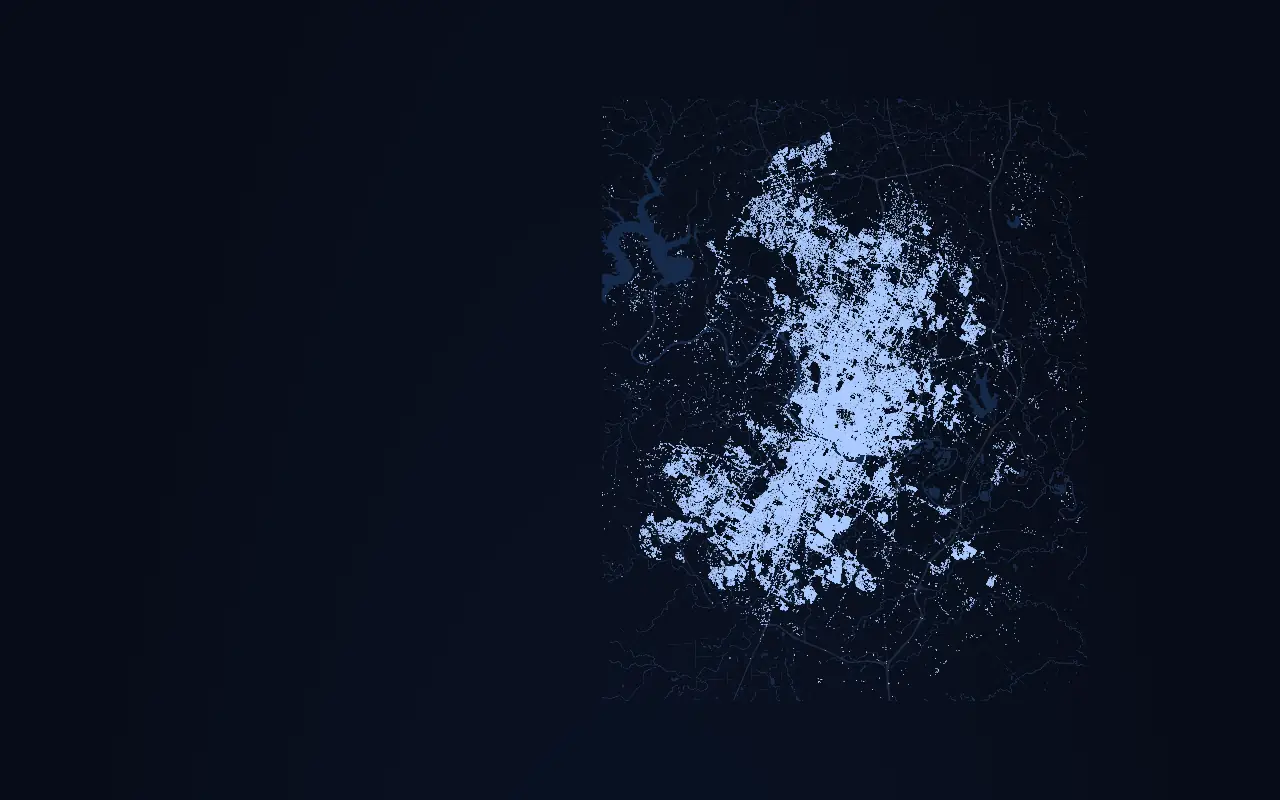
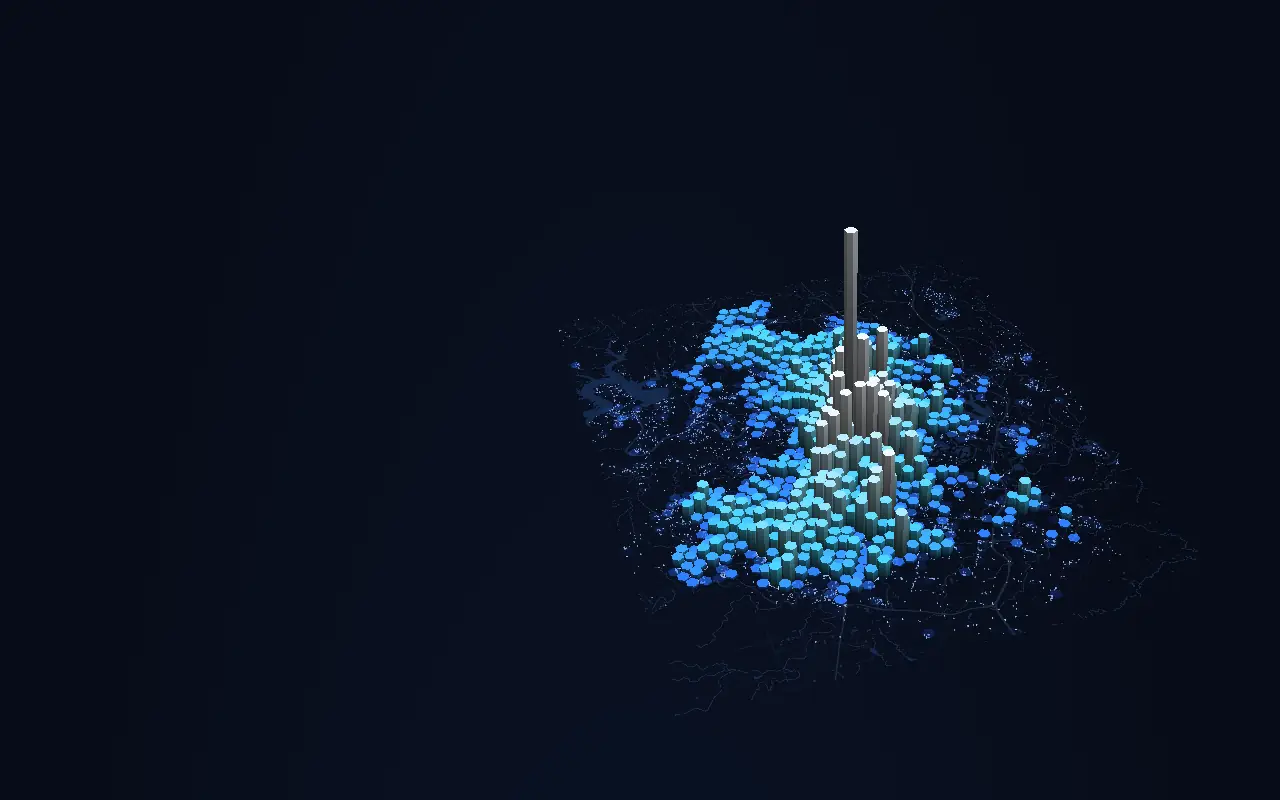
311 wait v2.1: hex-column skyline hero and 3D wait columns, rising poster intro

diff --git a/src/js/wait-311-hex.js b/src/js/wait-311-hex.js
@@ -1,0 +1,121 @@
+// Hex columns for /austin-311-wait/: the located requests binned into hexagons
+// (radius DATA.hexR, about 1 km across), built once into a prism mesh.
+import { LEVELS, minutesCode } from "./wait-311-core.js";
+import { program, locate, staticBuffer, attrib, setUniforms } from "./wait-311-gl.js";
+import { HEX_VERT, HEX_FRAG } from "./wait-311-shaders.js";
+
+const SLOW = minutesCode(7 * 1440);  // a closed request that took more than a week
+const MIN_COUNT = 3;                 // smaller hexagons are left out of the mesh
+const SQ3 = Math.sqrt(3);
+
+/** Axial coordinates of the pointy-top hexagon holding (x, y). */
+export function hexOf(x, y, r) {
+  const q = ((SQ3 / 3) * x - y / 3) / r, s = ((2 / 3) * y) / r;
+  let rx = Math.round(q), rz = Math.round(s), ry = Math.round(-q - s);
+  const dx = Math.abs(rx - q), dz = Math.abs(rz - s), dy = Math.abs(ry + q + s);
+  if (dx > dy && dx > dz) rx = -ry - rz;
+  else if (dz > dy) rz = -rx - ry;
+  return [rx, rz];
+}
+
+const centerOf = (q, s, r) => [r * SQ3 * (q + s / 2), r * 1.5 * s];
+
+function median(hist, n) {
+  let c = 0;
+  for (let i = 0; i < hist.length; i++) { c += hist[i]; if (c * 2 >= n) return i; }
+  return 0;
+}
+
+function newBin(q, s) {
+  return { q, s, total: 0, slow: 0, months: new Uint32Array(12),
+    slowHist: new Uint32Array(LEVELS + 1) };
+}
+
+/** Count every located request into its hexagon. */
+export async function binHexes(prep, r) {
+  const bins = new Map();
+  for (let i = 0; i < prep.n; i++) {
+    if (i && !(i & 0xffff)) await new Promise((done) => setTimeout(done));
+    const x = prep.aMap[i * 2], y = prep.aMap[i * 2 + 1];
+    if (x < -50) continue;
+    const [q, s] = hexOf(x, y, r), key = q * 65536 + s;
+    if (!bins.has(key)) bins.set(key, newBin(q, s));
+    const b = bins.get(key), code = prep.aMeta[i * 4];
+    b.total++;
+    b.months[Math.min(11, Math.floor((prep.aTR[i * 2] / prep.slots) * 12))]++;
+    if (code <= LEVELS && code > SLOW) { b.slow++; b.slowHist[code]++; }
+  }
+  return [...bins.values()].filter((b) => b.total >= MIN_COUNT);
+}
+
+const FACE_SHADE = [0.62, 0.42, 0.3, 0.38, 0.55, 0.72];  // light from the upper left
+
+function pushVertex(m, x, y, top, shade, h) {
+  m.pos.push(x, y, top); m.shade.push(shade);
+  m.cum.push(...h.cum); m.hex.push(h.slow, h.code, 0, 0);
+}
+
+function pushPrism(m, h, cx, cy, r) {
+  const corner = (k) => {
+    const a = (Math.PI / 3) * k + Math.PI / 6;
+    return [cx + r * Math.cos(a), cy + r * Math.sin(a)];
+  };
+  for (let k = 0; k < 6; k++) {
+    const [x1, y1] = corner(k), [x2, y2] = corner(k + 1);
+    for (const [x, y] of [[cx, cy], [x1, y1], [x2, y2]]) pushVertex(m, x, y, 1, 1, h);
+    const f = FACE_SHADE[k];
+    for (const [x, y, t] of [[x1, y1, 0], [x2, y2, 0], [x2, y2, 1], [x1, y1, 0], [x2, y2, 1],
+      [x1, y1, 1]]) pushVertex(m, x, y, t, f, h);
+  }
+}
+
+/** Prism mesh: 54 vertices per hexagon, heights normalized to the tallest. */
+export function hexMesh(bins, r) {
+  const maxTotal = Math.max(...bins.map((b) => b.total));
+  const maxSlow = Math.max(...bins.map((b) => b.slow));
+  const m = { pos: [], shade: [], cum: [], hex: [] };
+  for (const b of bins) {
+    let c = 0;
+    const cum = [...b.months].map((v) => Math.round(((c += v) / maxTotal) * 65535));
+    const h = { cum, slow: Math.round((b.slow / maxSlow) * 255),
+      code: Math.round((median(b.slowHist, b.slow) / LEVELS) * 255) };
+    const [cx, cy] = centerOf(b.q, b.s, r);
+    pushPrism(m, h, cx, cy, r * 0.88);
+  }
+  return { count: m.shade.length, maxTotal, maxSlow, pos: new Float32Array(m.pos),
+    shade: new Float32Array(m.shade), cum: new Uint16Array(m.cum), hex: new Uint8Array(m.hex) };
+}
+
+/** The draw pass. f = { m, a, b, mix, clock, h } (modes a and b, height in world units). */
+export function hexPass(gl, mesh) {
+  const prog = program(gl, HEX_VERT, HEX_FRAG);
+  const loc = locate(gl, prog, ["uView", "uProj", "uA", "uB", "uMix", "uClock", "uH"],
+    ["aPos", "aShade", "aCumA", "aCumB", "aCumC", "aHex"]);
+  const pos = staticBuffer(gl, mesh.pos), shade = staticBuffer(gl, mesh.shade);
+  const cum = staticBuffer(gl, mesh.cum), hex = staticBuffer(gl, mesh.hex);
+  const cumAttrs = ["aCumA", "aCumB", "aCumC"].map((n) => loc[n]);
+  const bindCum = () => {
+    gl.bindBuffer(gl.ARRAY_BUFFER, cum);
+    cumAttrs.forEach((l, i) => {
+      gl.enableVertexAttribArray(l);
+      gl.vertexAttribPointer(l, 4, gl.UNSIGNED_SHORT, true, 24, i * 8);
+    });
+  };
+  const all = [loc.aPos, loc.aShade, loc.aHex, ...cumAttrs];
+  return (f) => {
+    if (f.a === 0 && f.b === 0) return;
+    gl.useProgram(prog);
+    gl.enable(gl.DEPTH_TEST); gl.depthMask(true);
+    gl.blendFunc(gl.ONE, gl.ONE_MINUS_SRC_ALPHA);
+    attrib(gl, loc.aPos, pos, 3); attrib(gl, loc.aShade, shade, 1);
+    gl.bindBuffer(gl.ARRAY_BUFFER, hex);
+    gl.enableVertexAttribArray(loc.aHex);
+    gl.vertexAttribPointer(loc.aHex, 4, gl.UNSIGNED_BYTE, true, 0, 0);
+    bindCum();
+    setUniforms(gl, loc, { uView: f.m.view, uProj: f.m.proj, uA: f.a, uB: f.b, uMix: f.mix,
+      uClock: f.clock, uH: f.h });
+    gl.drawArrays(gl.TRIANGLES, 0, mesh.count);
+    for (const l of all) gl.disableVertexAttribArray(l);
+    gl.disable(gl.DEPTH_TEST);
+  };
+}

diff --git a/src/js/wait-311-shaders.js b/src/js/wait-311-shaders.js
@@ -1,6 +1,25 @@
 // GLSL for /austin-311-wait/. Each point's position in every scene is computed in
 // VERT from its attributes, so moving between scenes only changes uniforms.
 
+// The wait color ramp, shared by the points and the columns.
+const RAMP = `
+vec3 ramp(float c) {
+  // 1 min, 1 hour, 1 day, 1 week, 1 month, 3 months+ on the log code scale
+  vec3 c0 = vec3(0.17, 0.85, 1.0);
+  vec3 c1 = vec3(0.35, 0.94, 0.66);
+  vec3 c2 = vec3(1.0, 0.90, 0.43);
+  vec3 c3 = vec3(1.0, 0.55, 0.26);
+  vec3 c4 = vec3(1.0, 0.24, 0.43);
+  vec3 c5 = vec3(0.76, 0.17, 1.0);
+  float h = 40.0, d = 70.97, w = 89.06, m = 101.68, q = 112.0;
+  if (c < h) return mix(c0, c1, c / h);
+  if (c < d) return mix(c1, c2, (c - h) / (d - h));
+  if (c < w) return mix(c2, c3, (c - d) / (w - d));
+  if (c < m) return mix(c3, c4, (c - w) / (m - w));
+  return mix(c4, c5, clamp((c - m) / (q - m), 0.0, 1.0));
+}
+`;
+
 export const VERT = `
 precision highp float;
 attribute vec2 aMap;      // world x, y of the map position
@@ -18,22 +37,7 @@ uniform float uRingOffset, uLift;
 uniform vec2 uRowFit[10]; // per row: dots across each bin, dot spacing
 varying vec4 vColor;
 
-vec3 ramp(float c) {
-  // 1 min, 1 hour, 1 day, 1 week, 1 month, 3 months+ on the log code scale
-  vec3 c0 = vec3(0.17, 0.85, 1.0);
-  vec3 c1 = vec3(0.35, 0.94, 0.66);
-  vec3 c2 = vec3(1.0, 0.90, 0.43);
-  vec3 c3 = vec3(1.0, 0.55, 0.26);
-  vec3 c4 = vec3(1.0, 0.24, 0.43);
-  vec3 c5 = vec3(0.76, 0.17, 1.0);
-  float h = 40.0, d = 70.97, w = 89.06, m = 101.68, q = 112.0;
-  if (c < h) return mix(c0, c1, c / h);
-  if (c < d) return mix(c1, c2, (c - h) / (d - h));
-  if (c < w) return mix(c2, c3, (c - d) / (w - d));
-  if (c < m) return mix(c3, c4, (c - w) / (m - w));
-  return mix(c4, c5, clamp((c - m) / (q - m), 0.0, 1.0));
-}
-
+${RAMP}
 // Returns xyz and, in w, a visibility 0..1.
 vec4 place(float id) {
   float code = aMeta.x, grp = aMeta.y, rnd = aMeta.w / 255.0;
@@ -44,11 +48,11 @@ vec4 place(float id) {
     return vec4(aMap, 0.0, located ? 1.0 : 0.0);
   }
   if (id < 1.5 || id > 5.5) { // terrain (1), your wait (6)
-    // Only waits past about a week rise, so the slow places stand up as spikes.
-    // In the terrain, requests closed within a week stay on the ground, dimmed.
+    // Terrain: the points lie dim on the ground under the hex columns.
+    // Your wait: waits past about a week rise, so the slow places stand up.
+    if (id < 1.5) return vec4(aMap, 0.0, located ? 0.22 : 0.0);
     float z = uRise * pow(clamp((wn - 0.7) / 0.3, 0.0, 1.0), 1.5);
-    float ground = (id < 1.5 && z <= 0.0) ? 0.12 : 1.0;
-    return vec4(aMap, z, located ? ground : 0.0);
+    return vec4(aMap, z, located ? 1.0 : 0.0);
   }
   if (id < 2.5) { // the pile of every request by wait
     float bins = uHistCols.y;
@@ -181,3 +185,54 @@ export const LINE_FRAG = `
 precision mediump float;
 uniform vec4 uCol;
 void main() { gl_FragColor = uCol; }`;
+
+// Hex columns: one prism per hexagon about 1 km across. Mode 1 grows with the
+// running count of requests as the year plays; mode 2 is the count that took
+// more than a week, colored by their median wait. Mode 0 is flat and hidden.
+export const HEX_VERT = `
+precision highp float;
+attribute vec3 aPos;      // x, y, and 1 on the top face
+attribute float aShade;   // light on this face
+attribute vec4 aCumA, aCumB, aCumC; // running count at the end of each month, 0..1
+attribute vec4 aHex;      // slow count 0..1, median code of slow ones / 124
+uniform mat4 uView, uProj;
+uniform float uA, uB, uMix, uClock, uH;
+varying vec4 vColor;
+${RAMP}
+float month(float i) {
+  if (i < 0.5) return 0.0;
+  if (i < 4.5) return i < 1.5 ? aCumA.x : i < 2.5 ? aCumA.y : i < 3.5 ? aCumA.z : aCumA.w;
+  if (i < 8.5) return i < 5.5 ? aCumB.x : i < 6.5 ? aCumB.y : i < 7.5 ? aCumB.z : aCumB.w;
+  return i < 9.5 ? aCumC.x : i < 10.5 ? aCumC.y : i < 11.5 ? aCumC.z : aCumC.w;
+}
+float heightOf(float mode) {
+  if (mode < 0.5) return 0.0;
+  if (mode < 1.5) {
+    float f = clamp(uClock, 0.0, 1.0) * 12.0, m = floor(f);
+    return mix(month(m), month(min(12.0, m + 1.0)), f - m);
+  }
+  return aHex.x;
+}
+vec3 colorOf(float mode, float h) {
+  if (mode < 1.5) {
+    float t = clamp(sqrt(h) * 1.8, 0.0, 1.0);
+    vec3 lo = vec3(0.12, 0.3, 1.0), mid = vec3(0.3, 0.85, 1.0), hi = vec3(0.95, 0.98, 1.0);
+    return t < 0.5 ? mix(lo, mid, t * 2.0) : mix(mid, hi, t * 2.0 - 1.0);
+  }
+  return ramp(aHex.y * 124.0);
+}
+void main() {
+  float ha = heightOf(uA), hb = heightOf(uB);
+  float h = mix(ha, hb, uMix);
+  float vis = mix(step(0.5, uA), step(0.5, uB), uMix) * smoothstep(0.0, 0.01, h);
+  vec3 col = mix(colorOf(uA, ha), colorOf(uB, hb), uMix);
+  gl_Position = uProj * uView * vec4(aPos.xy, aPos.z * h * uH, 1.0);
+  // Sides darken toward the ground, so each column glows from the top down.
+  float lift = mix(0.3, 1.0, aPos.z);
+  vColor = vec4(col * aShade * lift * vis, vis);
+}`;
+
+export const HEX_FRAG = `
+precision mediump float;
+varying vec4 vColor;
+void main() { gl_FragColor = vColor; }`;

diff --git a/src/js/wait-311-gl.js b/src/js/wait-311-gl.js
@@ -17,14 +17,14 @@ export function program(gl, vs, fs) {
   return p;
 }
 
-function locate(gl, prog, uniforms, attribs = []) {
+export function locate(gl, prog, uniforms, attribs = []) {
   const loc = {};
   for (const name of uniforms) loc[name] = gl.getUniformLocation(prog, name);
   for (const name of attribs) loc[name] = gl.getAttribLocation(prog, name);
   return loc;
 }
 
-function staticBuffer(gl, array) {
+export function staticBuffer(gl, array) {
   const b = gl.createBuffer();
   gl.bindBuffer(gl.ARRAY_BUFFER, b);
   gl.bufferData(gl.ARRAY_BUFFER, array, gl.STATIC_DRAW);
@@ -42,14 +42,14 @@ function texture(gl, filter) {
 }
 
 /** Bind one vertex attribute from a buffer. */
-function attrib(gl, loc, buffer, size, type = gl.FLOAT) {
+export function attrib(gl, loc, buffer, size, type = gl.FLOAT) {
   gl.bindBuffer(gl.ARRAY_BUFFER, buffer);
   gl.enableVertexAttribArray(loc);
   gl.vertexAttribPointer(loc, size, type, false, 0, 0);
 }
 
 /** Uniform values by length: a number, vec2/3/4, a mat4, or a vec2[10] array. */
-function setUniforms(gl, loc, values) {
+export function setUniforms(gl, loc, values) {
   const set = {
     1: (l, v) => gl.uniform1f(l, v), 2: (l, v) => gl.uniform2fv(l, v),
     3: (l, v) => gl.uniform3fv(l, v), 4: (l, v) => gl.uniform4fv(l, v),
@@ -195,6 +195,7 @@ function tonePass(gl) {
 export function createRenderer(gl, prep, DATA, onAsset) {
   const points = pointPass(gl, prep), base = basemapPass(gl, DATA, onAsset);
   const lines = linePass(gl, DATA), tone = tonePass(gl), hdr = hdrTarget(gl);
+  let hex = null;   // the hex-column pass, added once its mesh is built
   const draw = (f) => {
     gl.clearColor(0, 0, 0, 0);
     gl.enable(gl.BLEND);
@@ -204,13 +205,15 @@ export function createRenderer(gl, prep, DATA, onAsset) {
       points(f.points);
       gl.bindFramebuffer(gl.FRAMEBUFFER, null);
     }
-    gl.clear(gl.COLOR_BUFFER_BIT);
+    gl.clear(gl.COLOR_BUFFER_BIT | gl.DEPTH_BUFFER_BIT);
     base(f.m, f.base);
     if (hdr.fb) tone(hdr.tex); else points(f.points);
+    if (hex && f.hex) hex({ m: f.m, ...f.hex });
     lines(f.m, f.lines);
   };
   const resize = (w, h) => { gl.viewport(0, 0, w, h); return hdr.resize(w, h); };
-  return { draw, resize };
+  const setHex = (pass) => { hex = pass; };
+  return { draw, resize, setHex };
 }
 
 /* ---------- a small matrix kit ---------- */

diff --git a/src/js/wait-311-scene.js b/src/js/wait-311-scene.js
@@ -1,6 +1,7 @@
 // The scroll-driven scenes of /austin-311-wait/: state, transitions, the hero
 // time-lapse clock and the per-frame point uniforms.
 import { createRenderer } from "./wait-311-gl.js";
+import { binHexes, hexMesh, hexPass } from "./wait-311-hex.js";
 import { BINS } from "./wait-311-prep.js";
 import { createView, lerpCam } from "./wait-311-view.js";
 import { createLabels } from "./wait-311-labels.js";
@@ -10,6 +11,9 @@ const LAYOUT = { hero: 0, map: 0, color: 0, terrain: 1, hist: 2, rows: 3, vehicl
   you: 6, end: 0 };
 const BASE_A = { hero: 0.7, map: 1, color: 0.75, terrain: 0.6, hist: 0, rows: 0, vehicles: 0.6,
   rings: 0, you: 0.6, end: 0.8 };
+// Hex columns: 1 = running count (hero), 2 = took more than a week (terrain).
+const HEX_MODE = { hero: 1, terrain: 2 };
+const HEX_H = 0.42;             // the tallest column, in map heights
 const MAP_LIKE = [0, 1, 4, 6];
 const ORBIT_MS = 12000;         // terrain and vehicles turn slowly for this long, then hold
 const PLAY_MS = 11000;          // the hero time-lapse of the year
@@ -111,6 +115,10 @@ export function run(ctx) {
   const view = createView(canvas, ctx.wide, DATA, prep);
   const renderer = createRenderer(gl, prep, DATA, request);
   const labels = createLabels(ctx.labels, DATA, prep);
+  binHexes(prep, DATA.hexR).then((bins) => {
+    renderer.setHex(hexPass(gl, hexMesh(bins, DATA.hexR)));
+    request();
+  });
   ctx.updateHud = createHud(ctx.hud, DATA, prep, ctx.data.slot);
   const currentCam = () => lerpCam(st.camA || st.camB, st.camB, ease(st.mix));
 
@@ -120,7 +128,9 @@ export function run(ctx) {
     const lines = (st.scene === "hero" ? 0 : 1)
       * blend((l) => (MAP_LIKE.includes(l) ? 1 : 0), st.from, st.to, k);
     renderer.draw({ m, points: pointValues(st, k, cam, m, view, prep, hdrOn),
-      base: (BASE_A[st.prevScene] ?? 0) * (1 - k) + (BASE_A[st.scene] ?? 0) * k, lines });
+      base: (BASE_A[st.prevScene] ?? 0) * (1 - k) + (BASE_A[st.scene] ?? 0) * k, lines,
+      hex: { a: HEX_MODE[st.prevScene] ?? 0, b: HEX_MODE[st.scene] ?? 0, mix: k, clock: st.clock,
+        h: HEX_H } });
     labels.place(view.toScreen(m), view.geo,
       { scene: st.scene, focus: st.focus, pin, settled: k > 0.85 });
   }

diff --git a/src/js/wait-311-view.js b/src/js/wait-311-view.js
@@ -4,7 +4,7 @@ import { perspective, lookAt, apply } from "./wait-311-gl.js";
 import { BINS } from "./wait-311-prep.js";
 
 const FOV = (32 * Math.PI) / 180;
-const CAM_OF = { hero: "map", map: "map", color: "map", terrain: "terrain", hist: "pile",
+const CAM_OF = { hero: "hero", map: "map", color: "map", terrain: "terrain", hist: "pile",
   rows: "pile", vehicles: "vehicles", rings: "ring", you: "you", end: "map" };
 
 // Dots fill a bin's width in as many columns as keep the pile under its height.
@@ -34,7 +34,10 @@ function geometry(aspect, prep, rows) {
 function cameras(DATA, geo) {
   const map = { t: [0, 0, 0], tilt: 0, rot: 0, w: DATA.mapW * 1.02, h: DATA.mapH * 1.02 };
   const terrain = { t: [0, -0.04, 0.04], tilt: 0.92, rot: -0.3, w: DATA.mapW, h: DATA.mapH * 0.9 };
-  return { map, terrain,
+  // The hero looks across the city from the south, so the columns read as a skyline.
+  const hero = { t: [0, 0.02, 0.06], tilt: 0.95, rot: -0.32,
+    w: DATA.mapW * 0.98, h: DATA.mapH * 1.0 };
+  return { map, terrain, hero,
     pile: { t: [0, 0, 0], tilt: 0, rot: 0, w: geo.boxW, h: geo.boxH },
     ring: { t: [0, 0, 0], tilt: 0, rot: 0, w: 2.5, h: 2.5 },
     vehicles: { ...terrain, tilt: 0.85, rot: 0.25 }, you: { ...terrain, tilt: 0.6, rot: -0.15 } };

diff --git a/src/css/wait-311.css b/src/css/wait-311.css
@@ -170,3 +170,18 @@ body:has(.w3) { overflow-x: clip; }
 .w3-guess-out b, .w3-guess-result b { color: var(--yel); }
 .w3-lbl.is-guess { translate: -50% -100%; text-align: center; color: var(--yel); font-size: .75rem; font-weight: 700; padding-bottom: 6px; }
 .w3-lbl.is-guess::after { content: ""; position: absolute; left: 50%; top: 100%; height: 30vh; max-height: 14rem; border-left: 2px solid var(--yel); }
+
+/* Opening: before the graphic starts, the poster's towers rise from the ground up. */
+@keyframes w3-rise {
+  from { -webkit-mask-position: 0 0; mask-position: 0 0; }
+  to { -webkit-mask-position: 0 100%; mask-position: 0 100%; }
+}
+@media (prefers-reduced-motion: no-preference) {
+  .w3-poster img {
+    -webkit-mask-image: linear-gradient(to bottom, rgba(0, 0, 0, .3) 0 40%, #000 55% 100%);
+    mask-image: linear-gradient(to bottom, rgba(0, 0, 0, .3) 0 40%, #000 55% 100%);
+    -webkit-mask-size: 100% 250%; mask-size: 100% 250%;
+    -webkit-mask-position: 0 100%; mask-position: 0 100%;
+    animation: w3-rise 2.2s cubic-bezier(.2, .7, .2, 1) .15s both;
+  }
+}

diff --git a/src/js/wait-311.js b/src/js/wait-311.js
@@ -59,7 +59,7 @@ function start(root) {
   setupGuess(root, DATA);
 
   // An explicit check: no WebGL (or no gzip streams) means the still images stay.
-  const gl = canvas.getContext("webgl", { antialias: false, alpha: true,
+  const gl = canvas.getContext("webgl", { antialias: false, alpha: true, depth: true,
     premultipliedAlpha: true, powerPreference: "high-performance" });
   if (!gl || typeof DecompressionStream === "undefined") return fallback(root, "no-webgl");
   root.classList.add("is-webgl");
